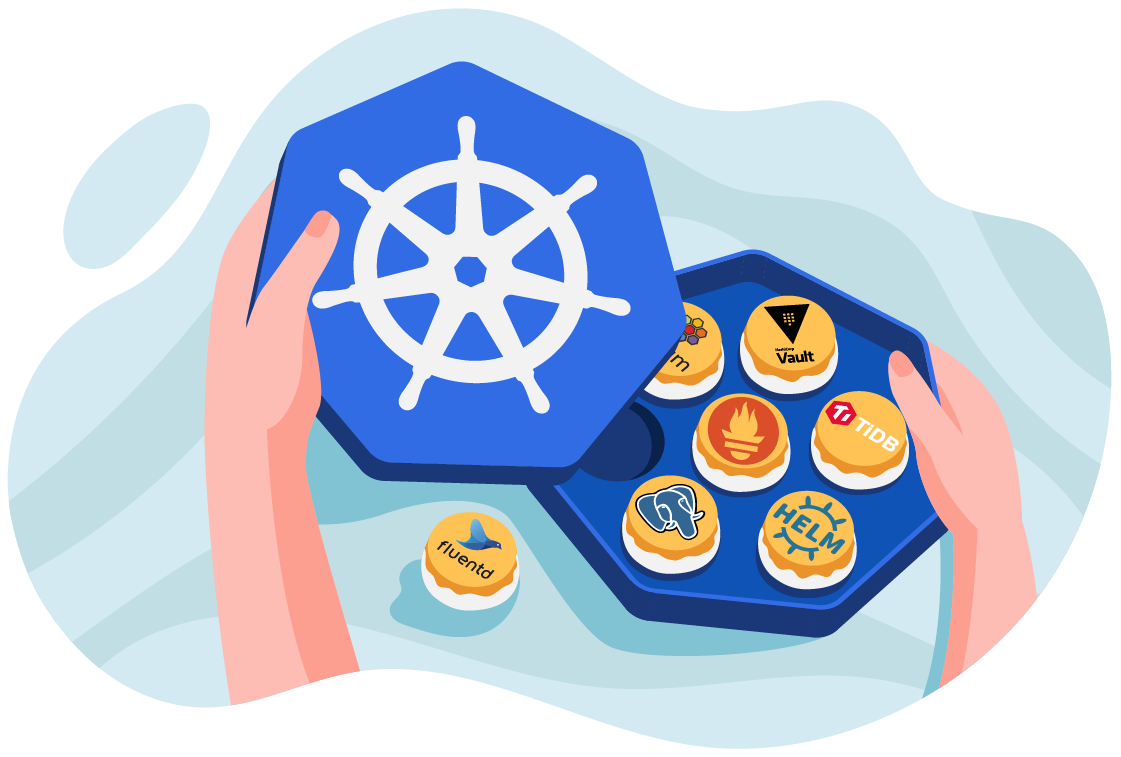
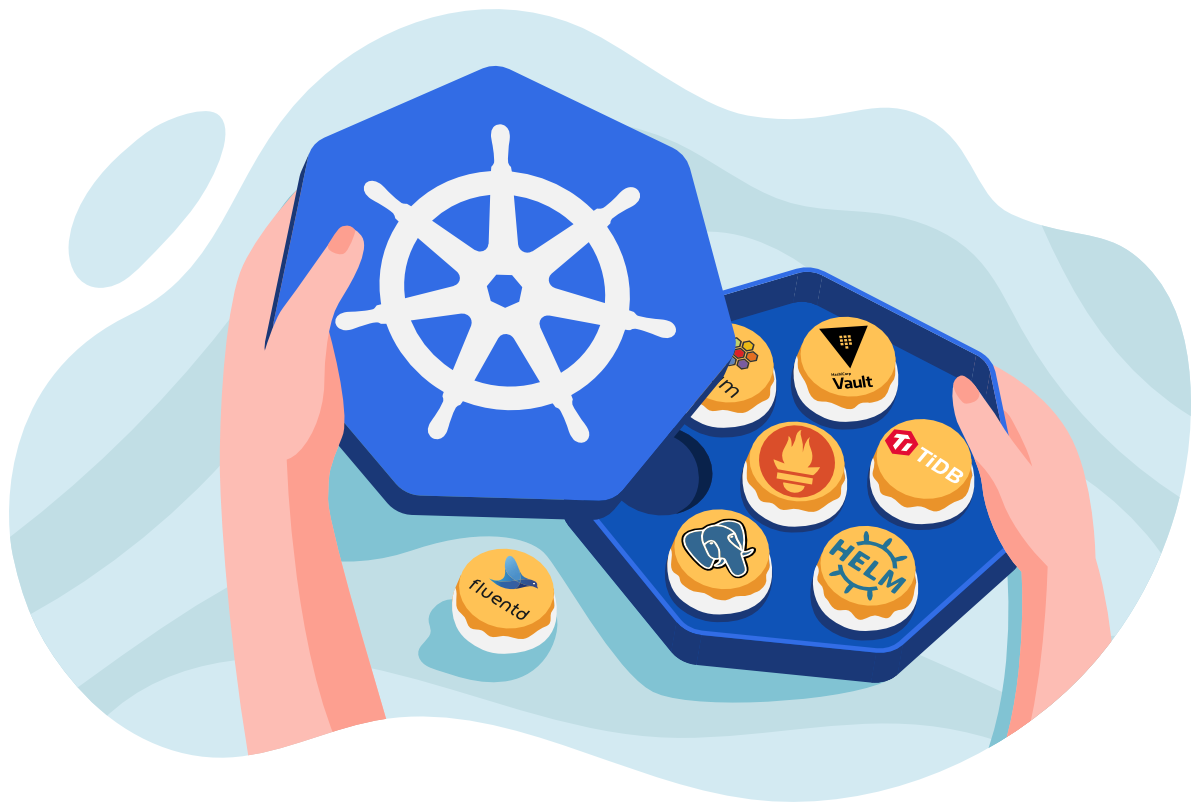
- don't nest URLs - update image to 1200px - better wording

diff --git a/src/sitemap.ts b/src/sitemap.ts
@@ -151,7 +151,9 @@ export const Sitemap = createNode({
     }),
     biteSizedKubernetes: createNode({
       page: BiteSized.Details,
-      children: bsk,
+      children: {
+        bskMultiCluster: bsk.bskMultiCluster,
+      },
     }),
     contactUs: createNode({
       page: ContactUs.Details,
@@ -258,6 +260,7 @@ export const Sitemap = createNode({
       page: BrowserConfig.Details,
       children: {},
     }),
+    bskHelm: bsk.bskHelm,
   },
 })
 
@@ -296,7 +299,7 @@ export function getBlogPosts(website: Sitemap): typeof blogPosts[keyof typeof bl
 }
 
 export function getBiteSizedSeries(website: Sitemap): typeof bsk[keyof typeof bsk][] {
-  return Object.values(website.children.biteSizedKubernetes.children)
+  return [...Object.values(website.children.biteSizedKubernetes.children), website.children.bskHelm]
     .filter(it => it.payload.type !== Redirect.Type)
     .slice(0)
 

diff --git a/src/bsk201903/index.tsx b/src/bsk201903/index.tsx
@@ -72,15 +72,15 @@ export const VisualiseYamlDetails = identity<Details>({
 
 export const HelmDetails = identity<Details>({
   type: identity<'bsk-march-04'>('bsk-march-04'),
-  url: '/helm-package-manager',
+  url: '/helm-templating-kubernetes-yaml',
   seoTitle: 'Is Helm used just for templating? ♦ Learnk8s',
-  title: 'Is Helm used just for templating?',
+  title: 'Is Helm used just for templating Kubernetes YAML files?',
   description: `Learn how Helm is used for templating, sharing charts and managing releases.`,
   openGraphImage: Image({
     url: 'assets/bsk.png',
     description: 'Bite-sized Kubernetes learning',
   }),
-  publishedDate: '2019-04-25',
+  publishedDate: '2019-04-16',
   previewImage: Image({
     url: 'assets/bsk.png',
     description: 'Bite-sized Kubernetes learning',

diff --git a/src/bsk201903/helm.md b/src/bsk201903/helm.md
@@ -1,4 +1,4 @@
-## Is Helm used just for templating?
+## Is Helm used just for templating Kubernetes YAML files?
 
 > **TL;DR:** Helm is used for templating, sharing charts and managing releases. If you're looking just for templating, you should check out [kustomize](https://github.com/kubernetes-sigs/kustomize).
 
